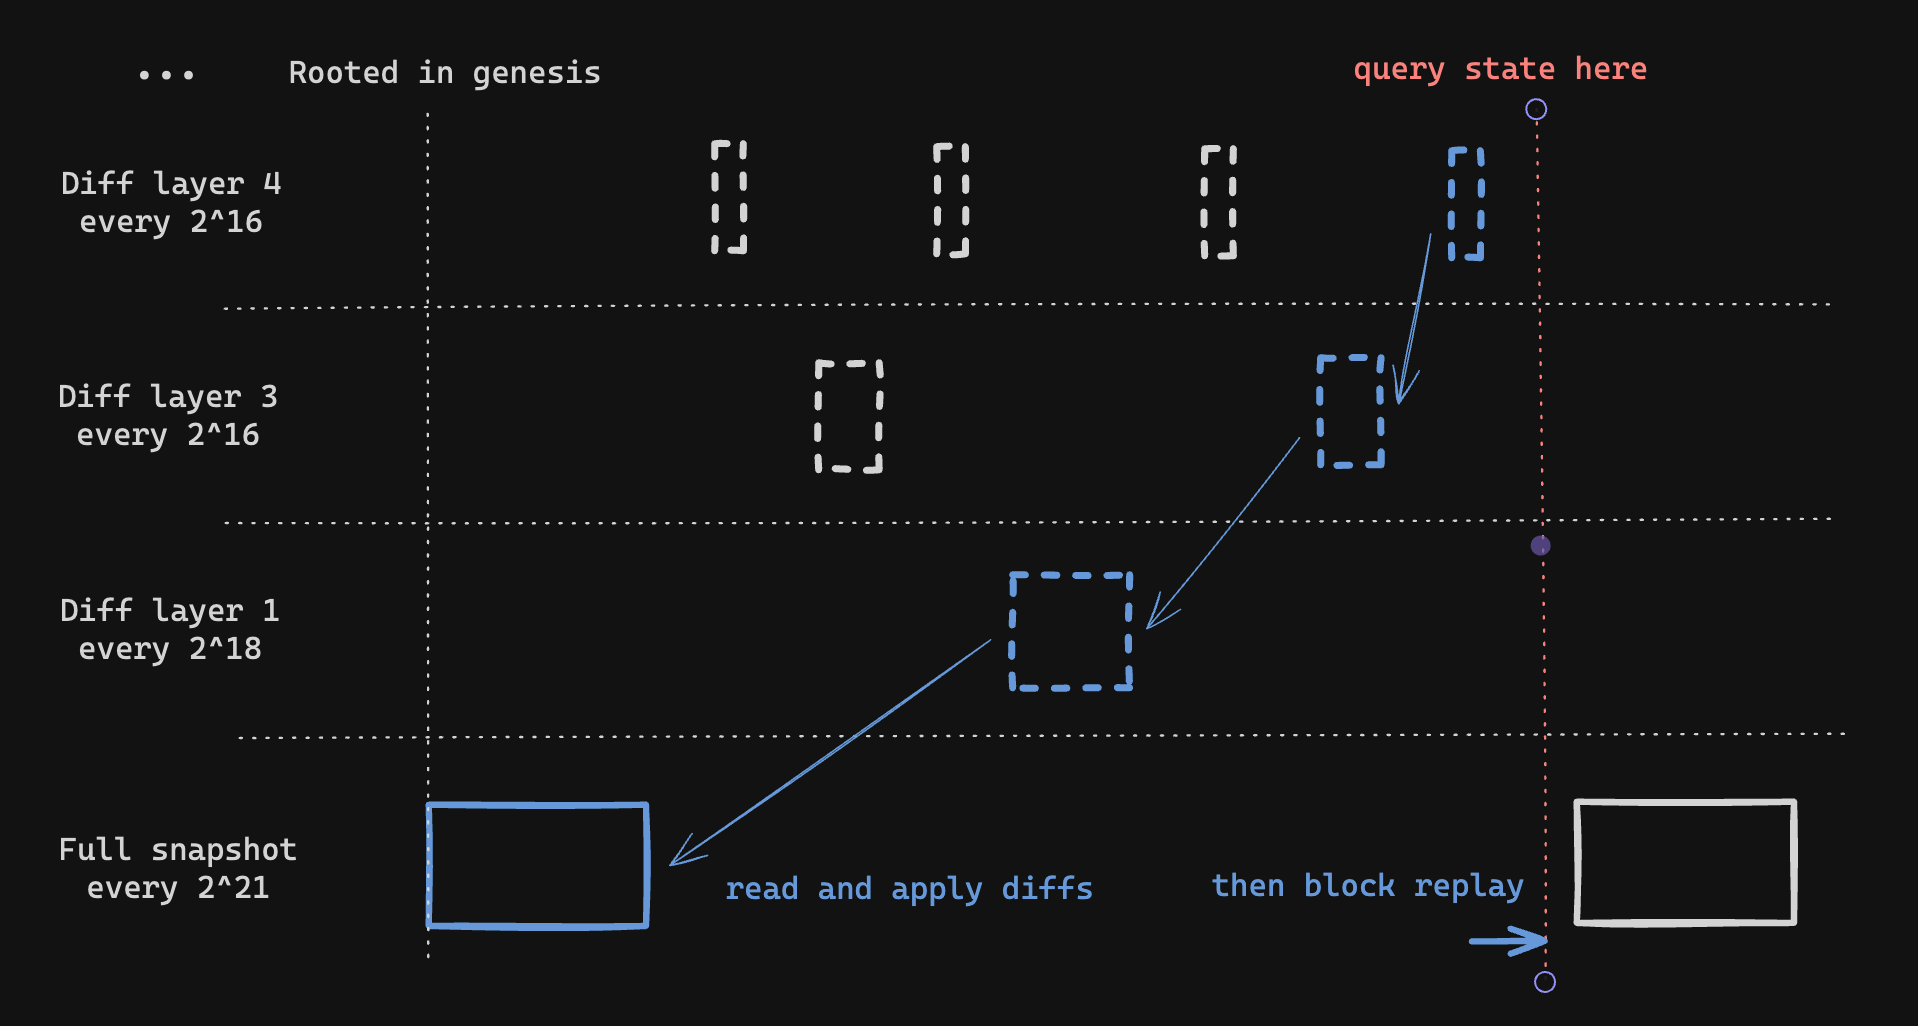
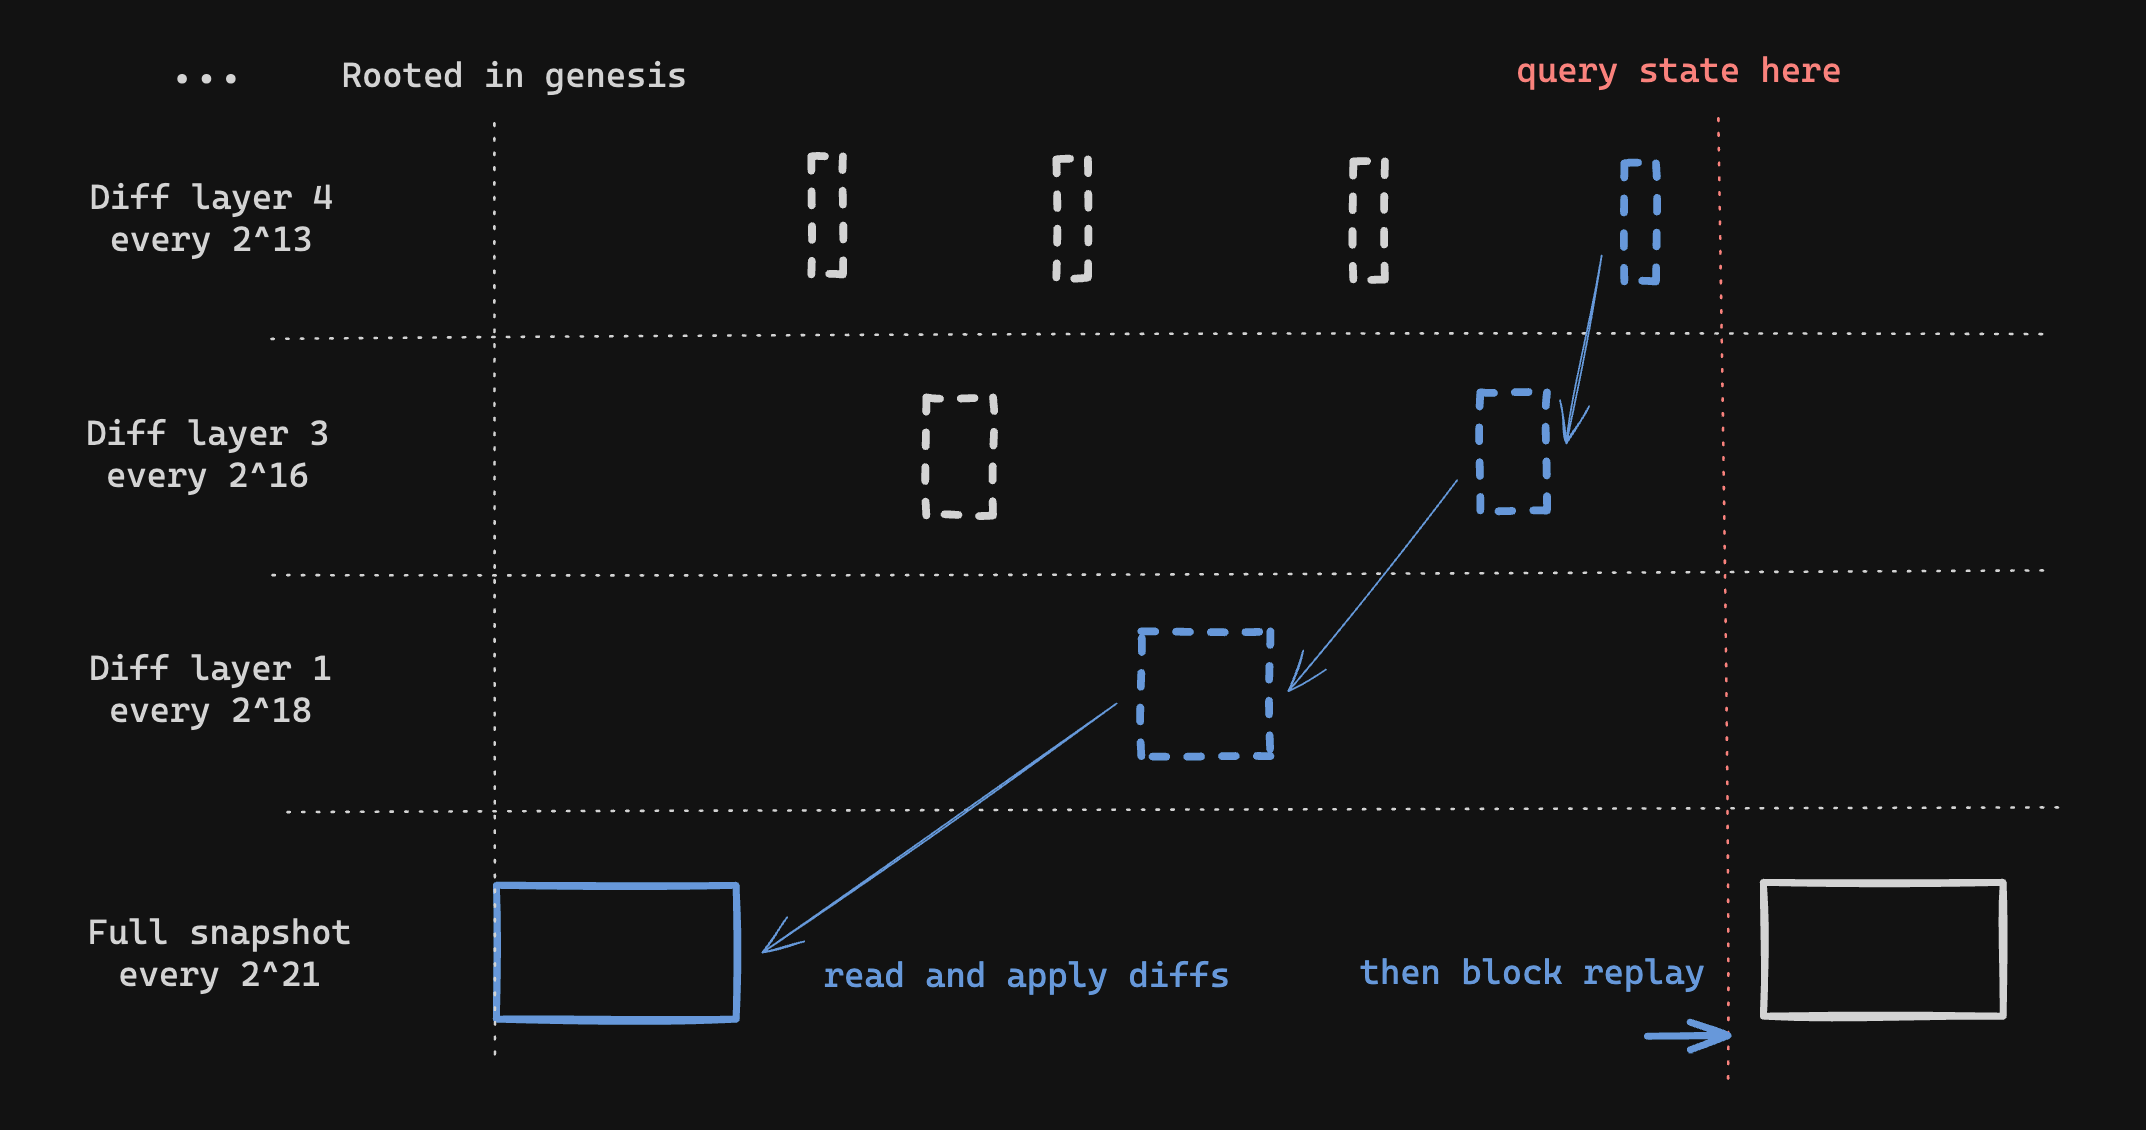
Update diagram

diff --git a/book/src/advanced_database.md b/book/src/advanced_database.md
@@ -26,7 +26,7 @@ compact database. The essence of the hdiffs is that full states (snapshots) are 
 once per year. To reconstruct a particular state, Lighthouse fetches the last snapshot prior to that
 state, and then applies several _layers_ of diffs. For example, to access a state from November
 2022, we might fetch the yearly snapshot for the start of 2022, then apply a monthly diff to jump to
-November, and then further more granular diffs to reach the particular week, day and epoch desired.
+November, and then more granular diffs to reach the particular week, day and epoch desired.
 Usually for the last stretch between the start of the epoch and the state requested, some blocks
 will be _replayed_.
 
@@ -35,8 +35,6 @@ full snapshot stored every `2^21` slots. In the next layer there are diffs every
 approximately correspond to "monthly" diffs. Following this are more granular diffs every `2^16`
 slots, every `2^13` slots, and so on down to the per-epoch diffs every `2^5` slots.
 
-<-- FIXME(sproul): update this diagram with Lion's sauce -->
-
 ![Tree diagram displaying hierarchical state diffs](./imgs/db-freezer-layout.png)
 
 The number of layers and frequency of diffs is configurable via the `--hierarchy-exponents` flag,
@@ -44,7 +42,7 @@ which has a default value of `5,9,11,13,16,18,21`. The hierarchy exponents must 
 from smallest to largest. The smallest exponent determines the frequency of the "closest" layer
 of diffs, with the default value of 5 corresponding to a diff every `2^5` slots (every epoch).
 The largest number determines the frequency of full snapshots, with the default value of 21
-corresponding to a snapshot every `2^21` slots.
+corresponding to a snapshot every `2^21` slots (every 291 days).
 
 The number of possible `--hierarchy-exponents` configurations is extremely large and our exploration
 of possible configurations is still in its relative infancy. If you experiment with non-default
